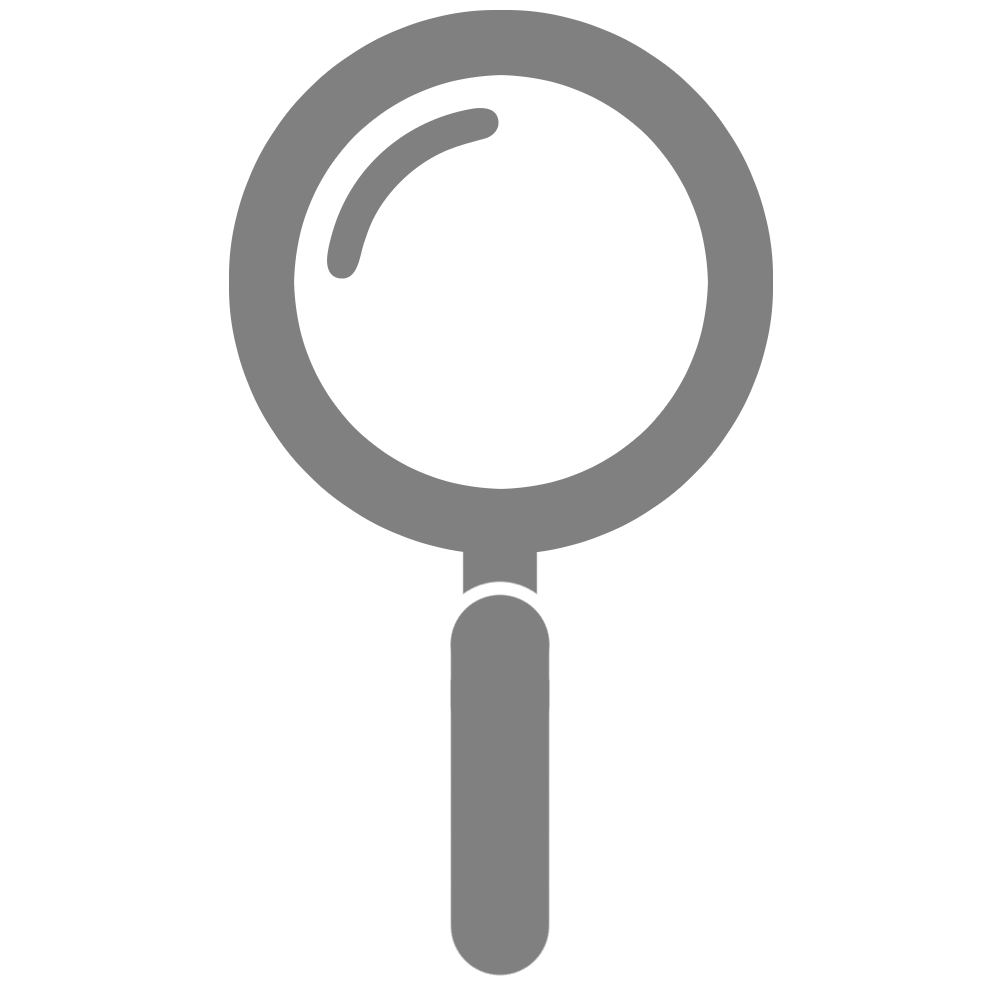
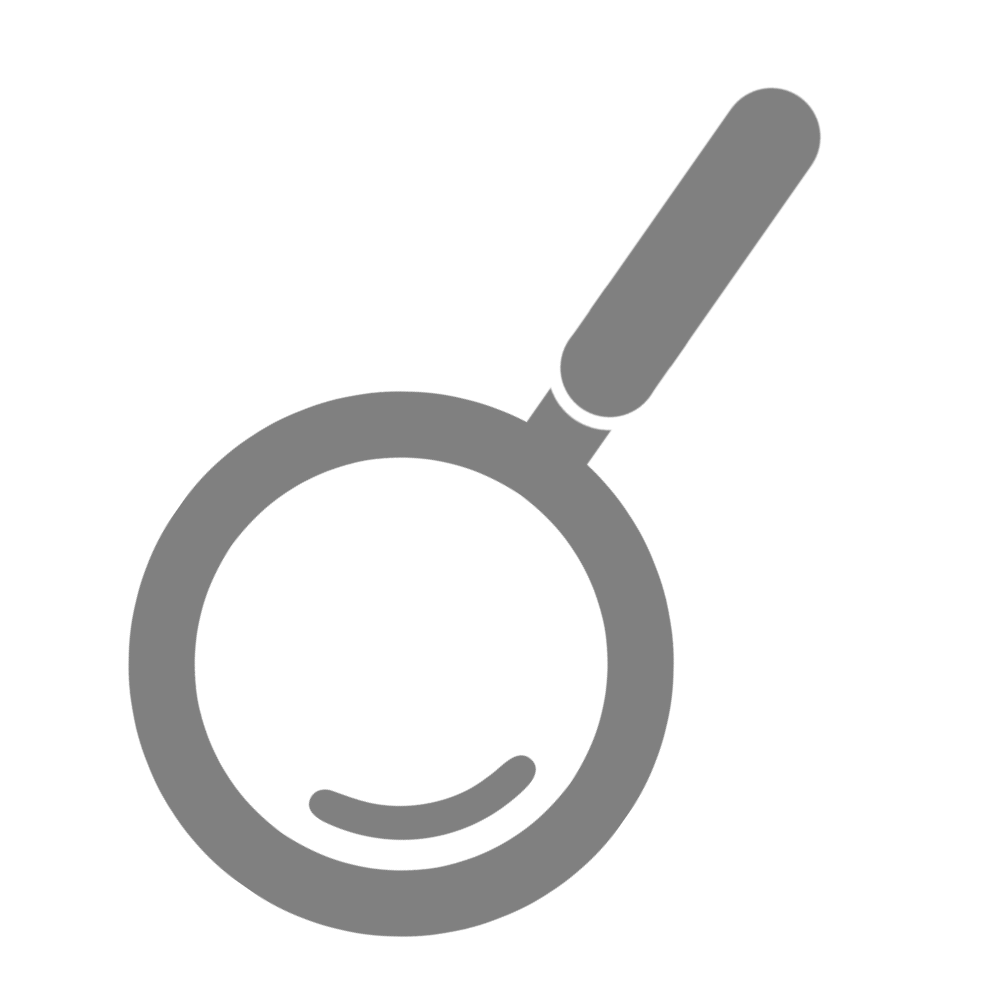
Typos, some small visual changes,

Changed region(s): [[0.124, 0.0, 0.837, 0.992]]

diff --git a/smap/public/javascripts/visuals.js b/smap/public/javascripts/visuals.js
@@ -73,21 +73,21 @@ $("document").ready(function () {
     selectionContainer = $("#statistics-selector");
     map = $("#us-map");
 
-    // Get the modal
-    var modal = document.getElementById("modal");
-    
-    // Get the image and insert it inside the modal - use its "alt" text as a caption
+    // Get the model
+    var model = document.getElementById("model");
+
+    // Get the image and insert it inside the model - use its "alt" text as a caption
     var img = document.getElementById("ne-inspector");
     img.onclick = function(){
-        modal.style.display = "grid";
+        model.style.display = "grid";
     }
-    
-    // Get the <span> element that closes the modal
+
+    // Get the <span> element that closes the model
     var span = document.getElementById("ne-magnifiyer-close");
-    
-    // When the user clicks on <span> (x), close the modal
-    span.onclick = function() { 
-        modal.style.display = "none";
+
+    // When the user clicks on <span> (x), close the model
+    span.onclick = function() {
+        model.style.display = "none";
     }
 
     //Gets list of categories and creates those sliders
@@ -122,7 +122,7 @@ $("document").ready(function () {
         }).mouseleave( function() {
             $(this).css("filter", "brightness(100%) contrast(100%)").css("stroke-width", "1");
         });
-        // Done now for the NE 
+        // Done now for the NE
         var ne_map = document.getElementById("ne-map").contentDocument;
         var ne_map_top_element = $("#ME", ne_map);
         $("path", ne_map).mouseenter( function() {

diff --git a/smap/public/stylesheets/style.css b/smap/public/stylesheets/style.css
@@ -384,8 +384,19 @@ object {
   position: absolute;
   top: 0;
   right: 0;
-  width: 100px;
-  height: 100px;
+  padding-top: 5px;
+  width: 80px;
+  height: 80px;
+  opacity: 66.67%;
+  transition: 0.25s;
+  /* transform: rotateZ(215deg); */
+}
+
+#ne-inspector:hover {
+    opacity: 100%;
+    width: 90px;
+    height: 90px;
+    transition: 0.5s;
 }
 
 #ne-inspector-container {
@@ -394,15 +405,15 @@ object {
 }
 
 #ne-map {
-    width: 100%;
     height: 100%;
+    padding-right: 12.5%;
 }
 
-/* The Modal (background) */
-#modal {
+/* The Model (background) */
+#model {
   display: none; /* Hidden by default */
   align-items: center;
-  justify-items: center;
+  justify-items: end;
   position: absolute; /* Stay in place */
   z-index: 1; /* Sit on top */
   left: 0;

diff --git a/smap/public/index.html b/smap/public/index.html
@@ -150,7 +150,7 @@
                 <!-- Magnifying glass -->
                 <img id="ne-inspector" src="images/ne-inspector.png"/>
                 <!-- The container for the actual magnification bit -->
-                <div id="modal">
+                <div id="model">
                     <object type="image/svg+xml" data="images/ne.svg" id="ne-map"></object>
                     <span id="ne-magnifiyer-close">&times;</span>
                 </div>
